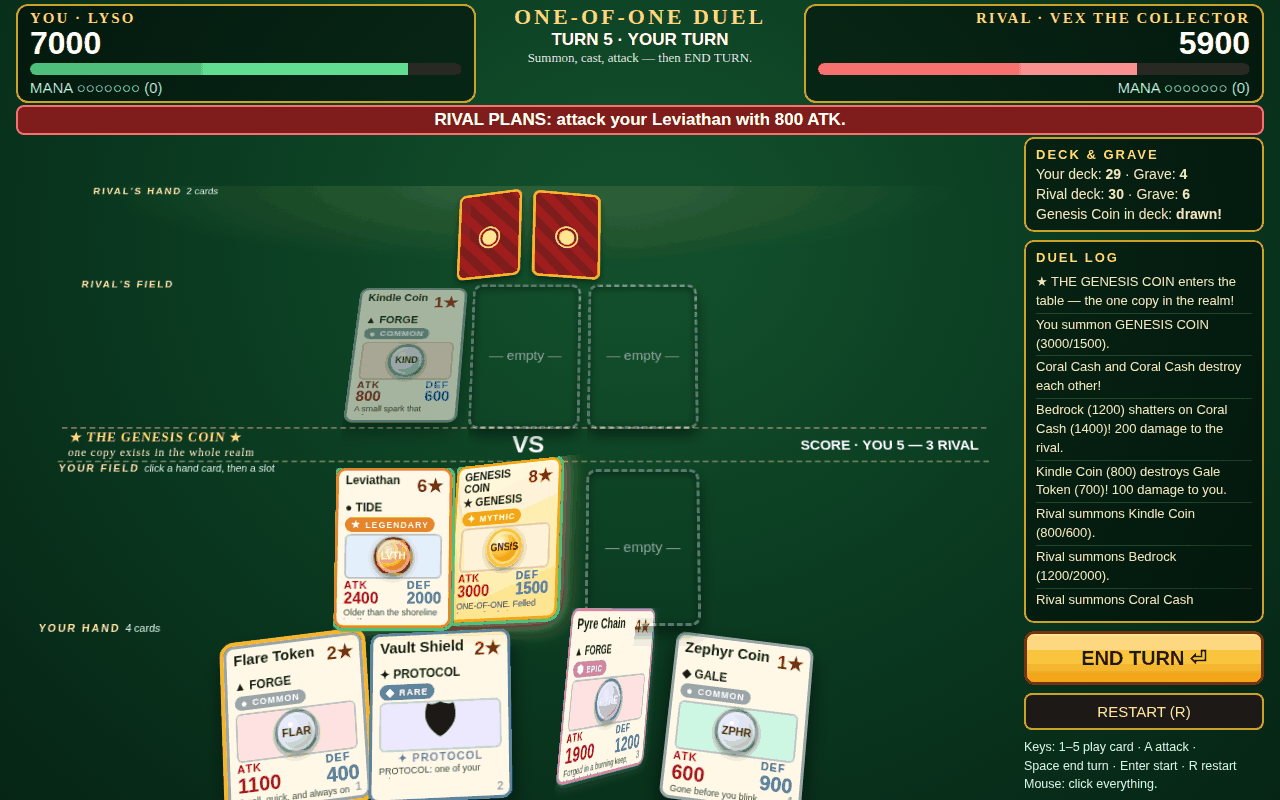
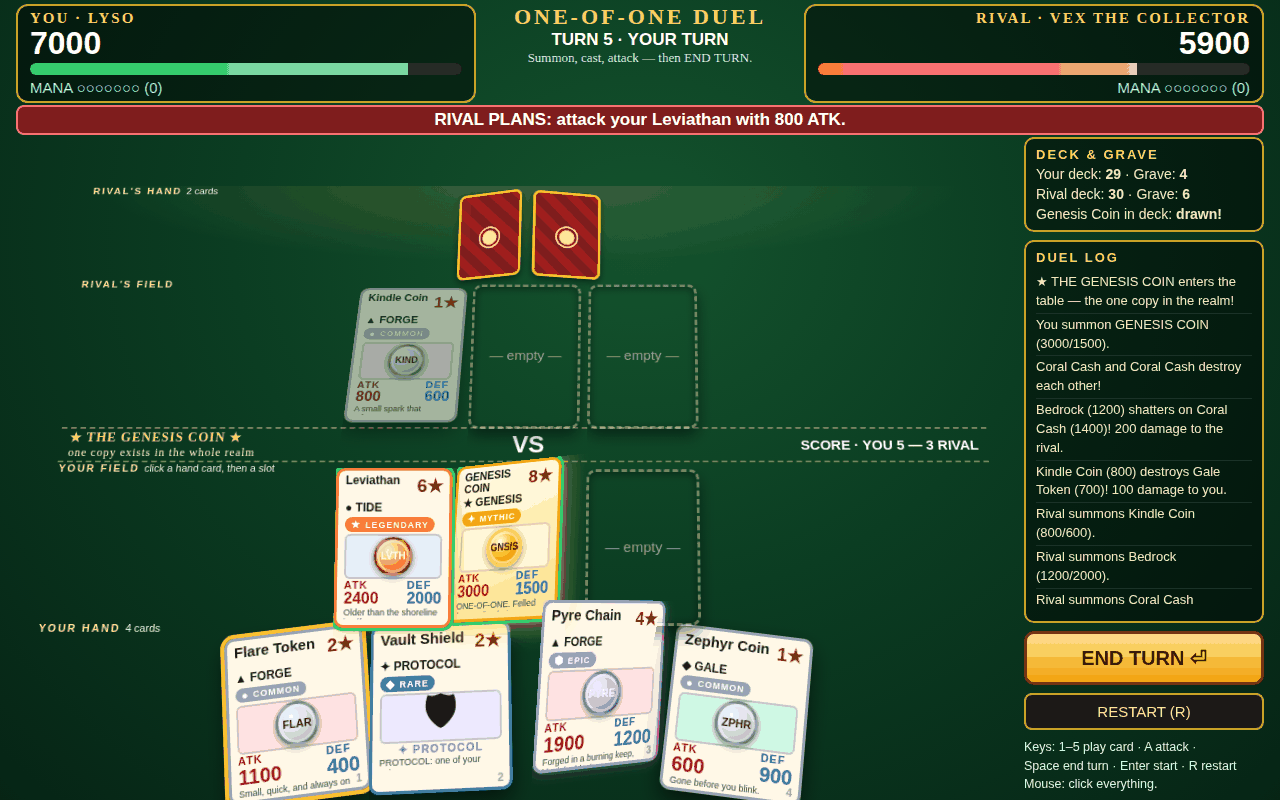
Cover fix: mid-flip Pyre Chain 55deg -> 32deg so it reads as a card; hand row up 8px so flavor clears the frame

diff --git a/game/style.css b/game/style.css
@@ -52,7 +52,7 @@ body { font-family: Georgia, 'Times New Roman', serif; color: #f3e9c8; }
 .hand-row { min-height: 100px; }
 .field-row { min-height: 120px; }
 .rival-hand { transform: none; }
-#you-hand { transform: none; }
+#you-hand { transform: translateY(-8px); }
 #rival-field { transform: none; }
 #you-field { transform: none; }
 #centre-line { display: flex; align-items: center; justify-content: space-between;
@@ -151,7 +151,7 @@ body.shot .card, body.shot .card-back, body.shot .lp-fill { animation: none !imp
    hand card is caught mid-flip, dealing into the hand. */
 body.shot #you-hand .card:nth-child(1) { transform: rotateZ(-7deg) translateY(8px); }
 body.shot #you-hand .card:nth-child(2) { transform: rotateZ(-2.5deg) translateZ(12px); }
-body.shot #you-hand .card:nth-child(3) { transform: translateY(-26px) rotateY(55deg) rotateX(-6deg) translateZ(24px); }
+body.shot #you-hand .card:nth-child(3) { transform: translateY(-26px) rotateY(32deg) rotateX(-6deg) translateZ(24px); }
 body.shot #you-hand .card:nth-child(4) { transform: rotateZ(7deg) translateY(8px); }
 body.shot #you-field .card { transform: rotateX(-7deg) translateZ(22px); }
 body.shot #you-field .card.hero-3d { transform: rotateX(8deg) rotateY(-18deg) translateZ(38px); }
